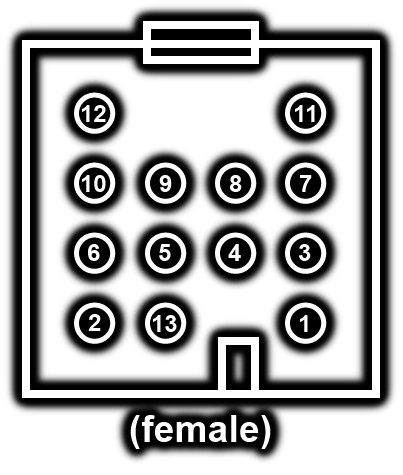
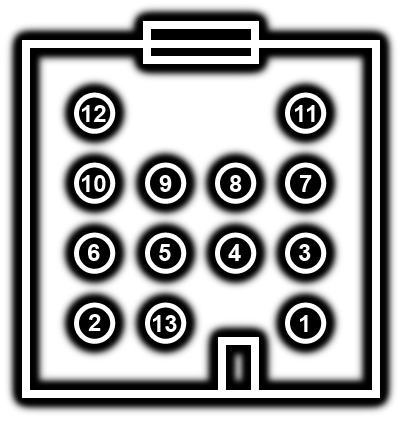
Updated pinouts & added reference images

diff --git a/Pinouts.md b/Pinouts.md
@@ -6,8 +6,9 @@ A collection of pinouts and electrical descriptions for connectors.
 
 ---
 
-## 13-pin Acoustimass Connector
+## 13-pin Acoustimass Connector (cable: pins)
 <img src="graphics/acoustimass.png" width=300rem>
+<img src="graphics/acoustimassRef.png" width=300rem>
 
 Source: [0, pg20] [1, pg70]
 
@@ -32,41 +33,44 @@ Shell | SGND | Connected to GND
 
 ---
 
-## 9-pin DE9 Satellite Speaker Connector
+## 9-pin DE9 Satellite Speaker Connector (cable: pins)
 <img src="graphics/de9.png" width=300rem>
+<img src="graphics/de9Ref.png" width=300rem>
 
-Source: (pending)
+Source: Manual pinout of the cable
 
 Pin# | Description | Note
 --- | --- | ---
-1 | LeftA | 
-2 | LeftA |
+1 | Left Channel, R- | Right driver
+2 | Left Channel, R+ | Right driver
 3 | GND |
-4 | RightA | 
-5 | RightA | 
-6 | LeftB | 
-7 | LeftB | 
-8 | RightB | 
-9 | RightB | 
+4 | Right Channel, L+ | Left driver
+5 | Right Channel, L- | Left driver 
+6 | Left Channel, L+ | Left driver
+7 | Left Channel, L- | Left driver
+8 | Right Channel, R- | Right driver
+9 | Right Channel, R+ | Right driver
 Shell | GND | 
 
 ---
 
-## 4-pin Satellite Connector
+## 4-pin Satellite Connector (speaker: pins)
 <img src="graphics/satellite.png" width=300rem>
+<img src="graphics/satelliteRef.png" width=300rem>
 
-Source: (pending)
+Source: Manual pinout of the satellite speakers
 
 Pin# | Description | Note
 --- | --- | ---
-1 | SpkA | 
-2 | SpkA |
-3 | SpkB |
-4 | SpkB | 
+1 | Right Driver + | red terminal, black wire 
+2 | Right Driver - | blue terminal, white wire
+3 | Left Driver - | blue terminal, white wire
+4 | Left Driver + | red terminal, black wire
 
 
-## 9-pin DIN ETAP/Boselink Connector
+## 9-pin DIN ETAP/Boselink Connector (cable: pins)
 <img src="graphics/etap.png" width=300rem>
+<img src="graphics/etapRef.png" width=300rem>
 
 Source: [1, pg69]
 
@@ -74,11 +78,11 @@ Pin# | Description | Note
 --- | --- | ---
 1 | ? | 
 2 | ? |
-3 | Left + #1 | 
-4 | Right + #1 | 
-5 | Right + #2 | 
+3 | Zone 2 Left Input | 
+4 | Zone 2 Right Input | 
+5 | Zone 1 Right Input | 
 6 | ? | 
-7 | Data | Serial data
+7 | Data | Half-duplex serial data
 8 | ? | 
-9 | Left + #2 | 
+9 | Zone 1 Left Input | 
 Shell | GND | 

diff --git a/README.md b/README.md
@@ -55,6 +55,6 @@ After trying these steps and still having issues, I concluded this was a real ha
 
 ---
 
-Tags to help any other poor souls trying to do something similar in the future find this: bose, acoustimass, smartspeaker, rs232, serial, protocol, standard, cinemate, 321GS III, pinout, DB9, DE9, etap, tap, uart, specification, half-duplex, infrared, remote, boselink, din
+Tags to help any other poor souls trying to do something similar in the future find this: bose, acoustimass, smartspeaker, rs232, serial, protocol, standard, cinemate, 321GS III, pinout, DB9, DE9, etap, tap, uart, specification, half-duplex, infrared, remote, boselink, din, driver, satellite
 
 Bose is trademarked and such, no infringement intended.
